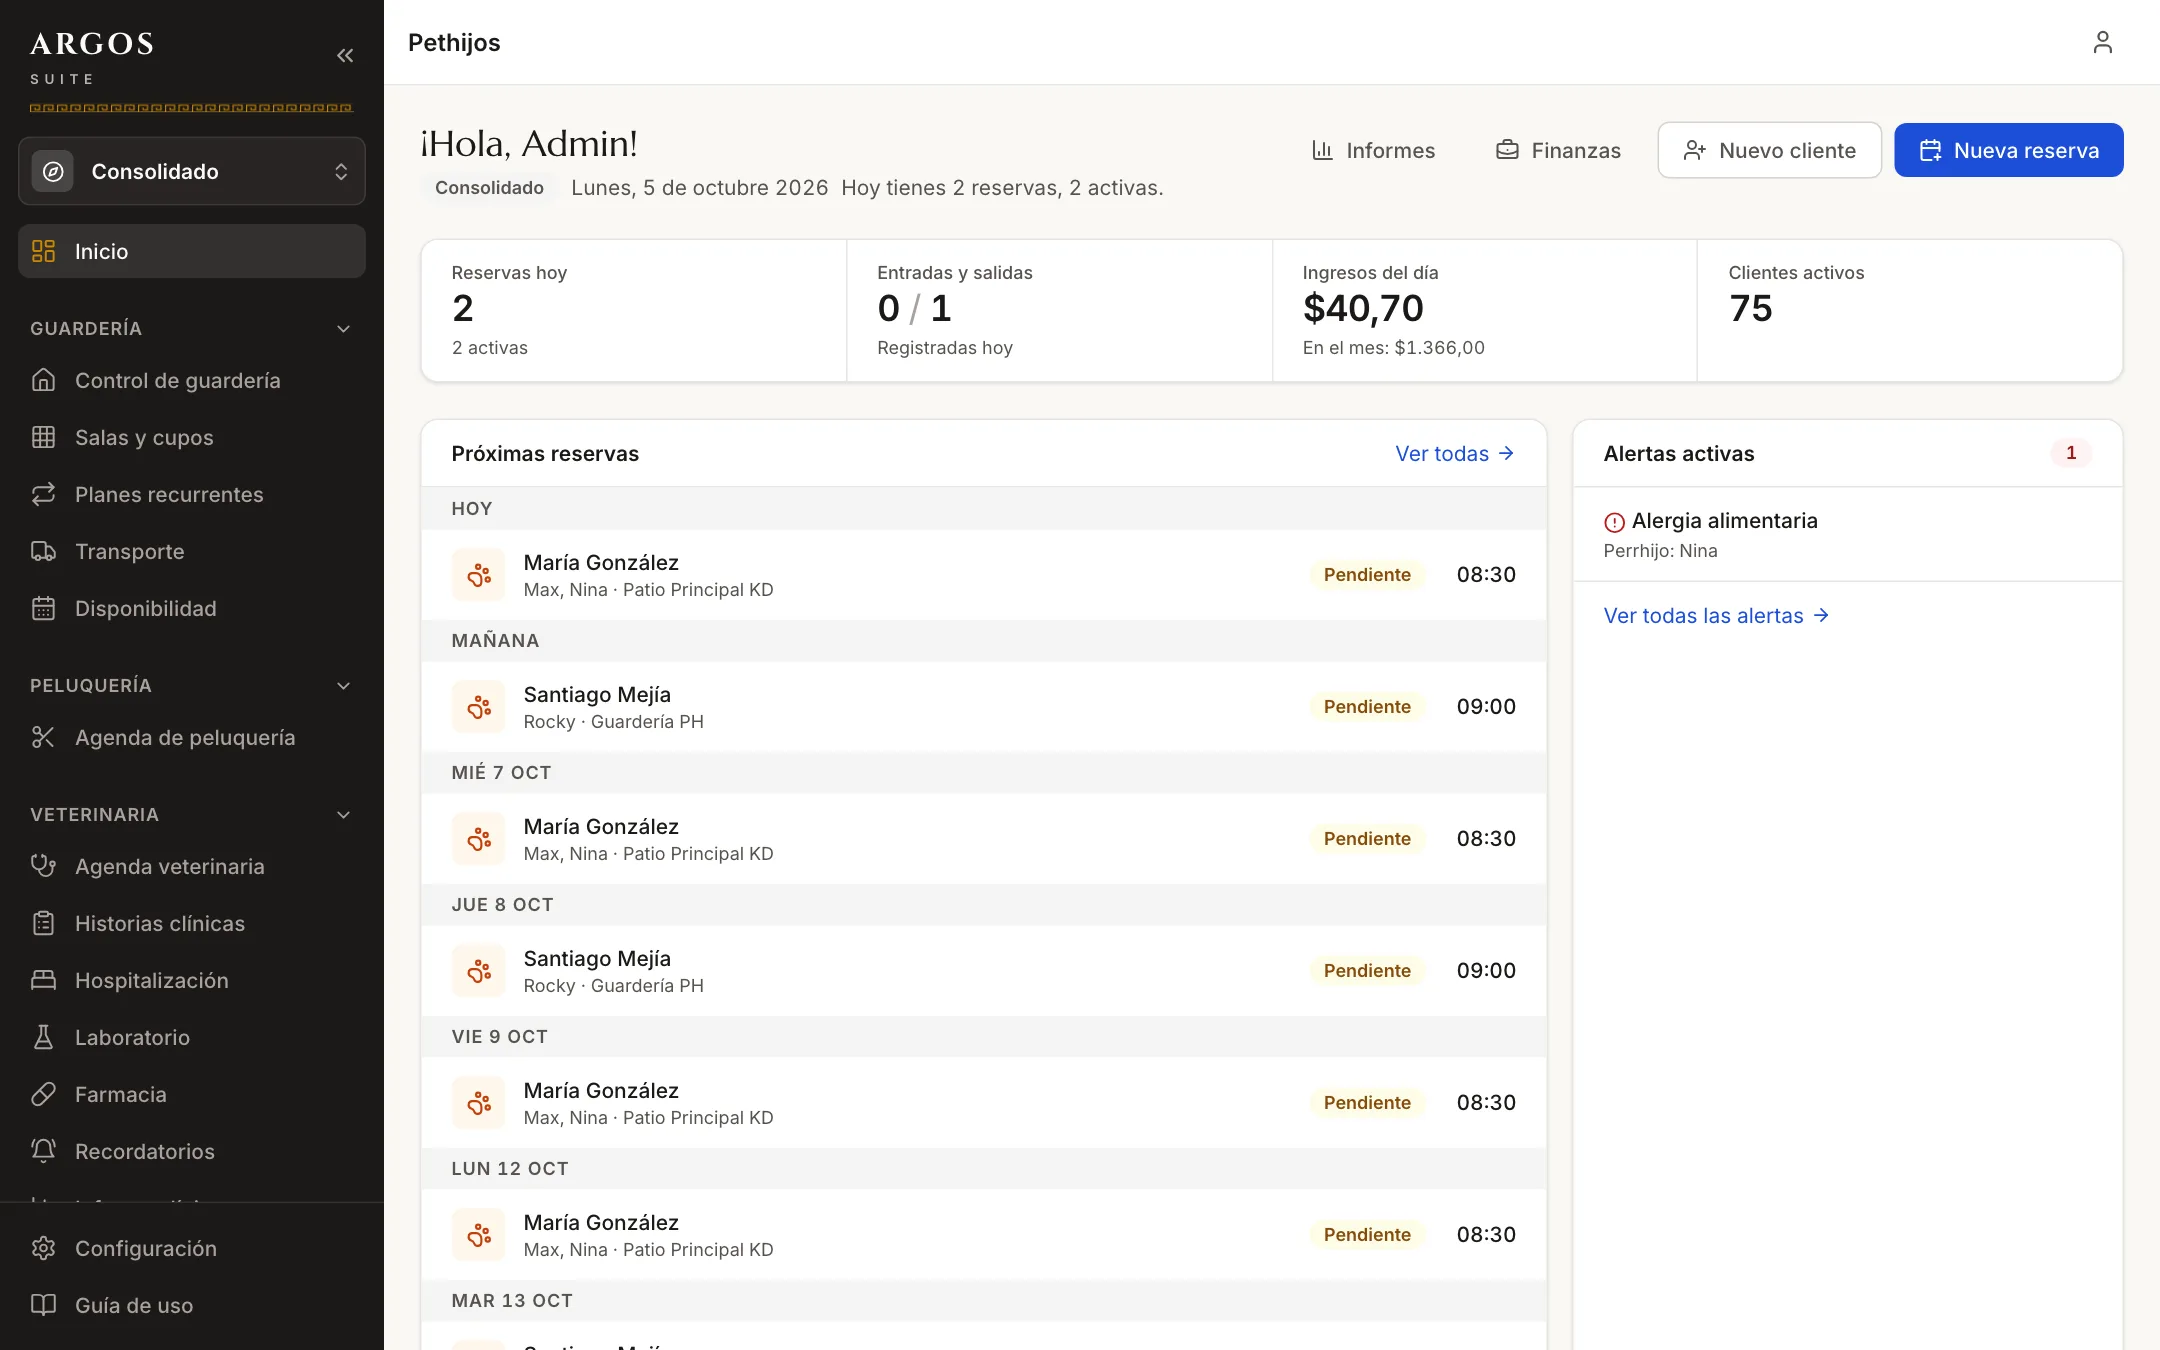
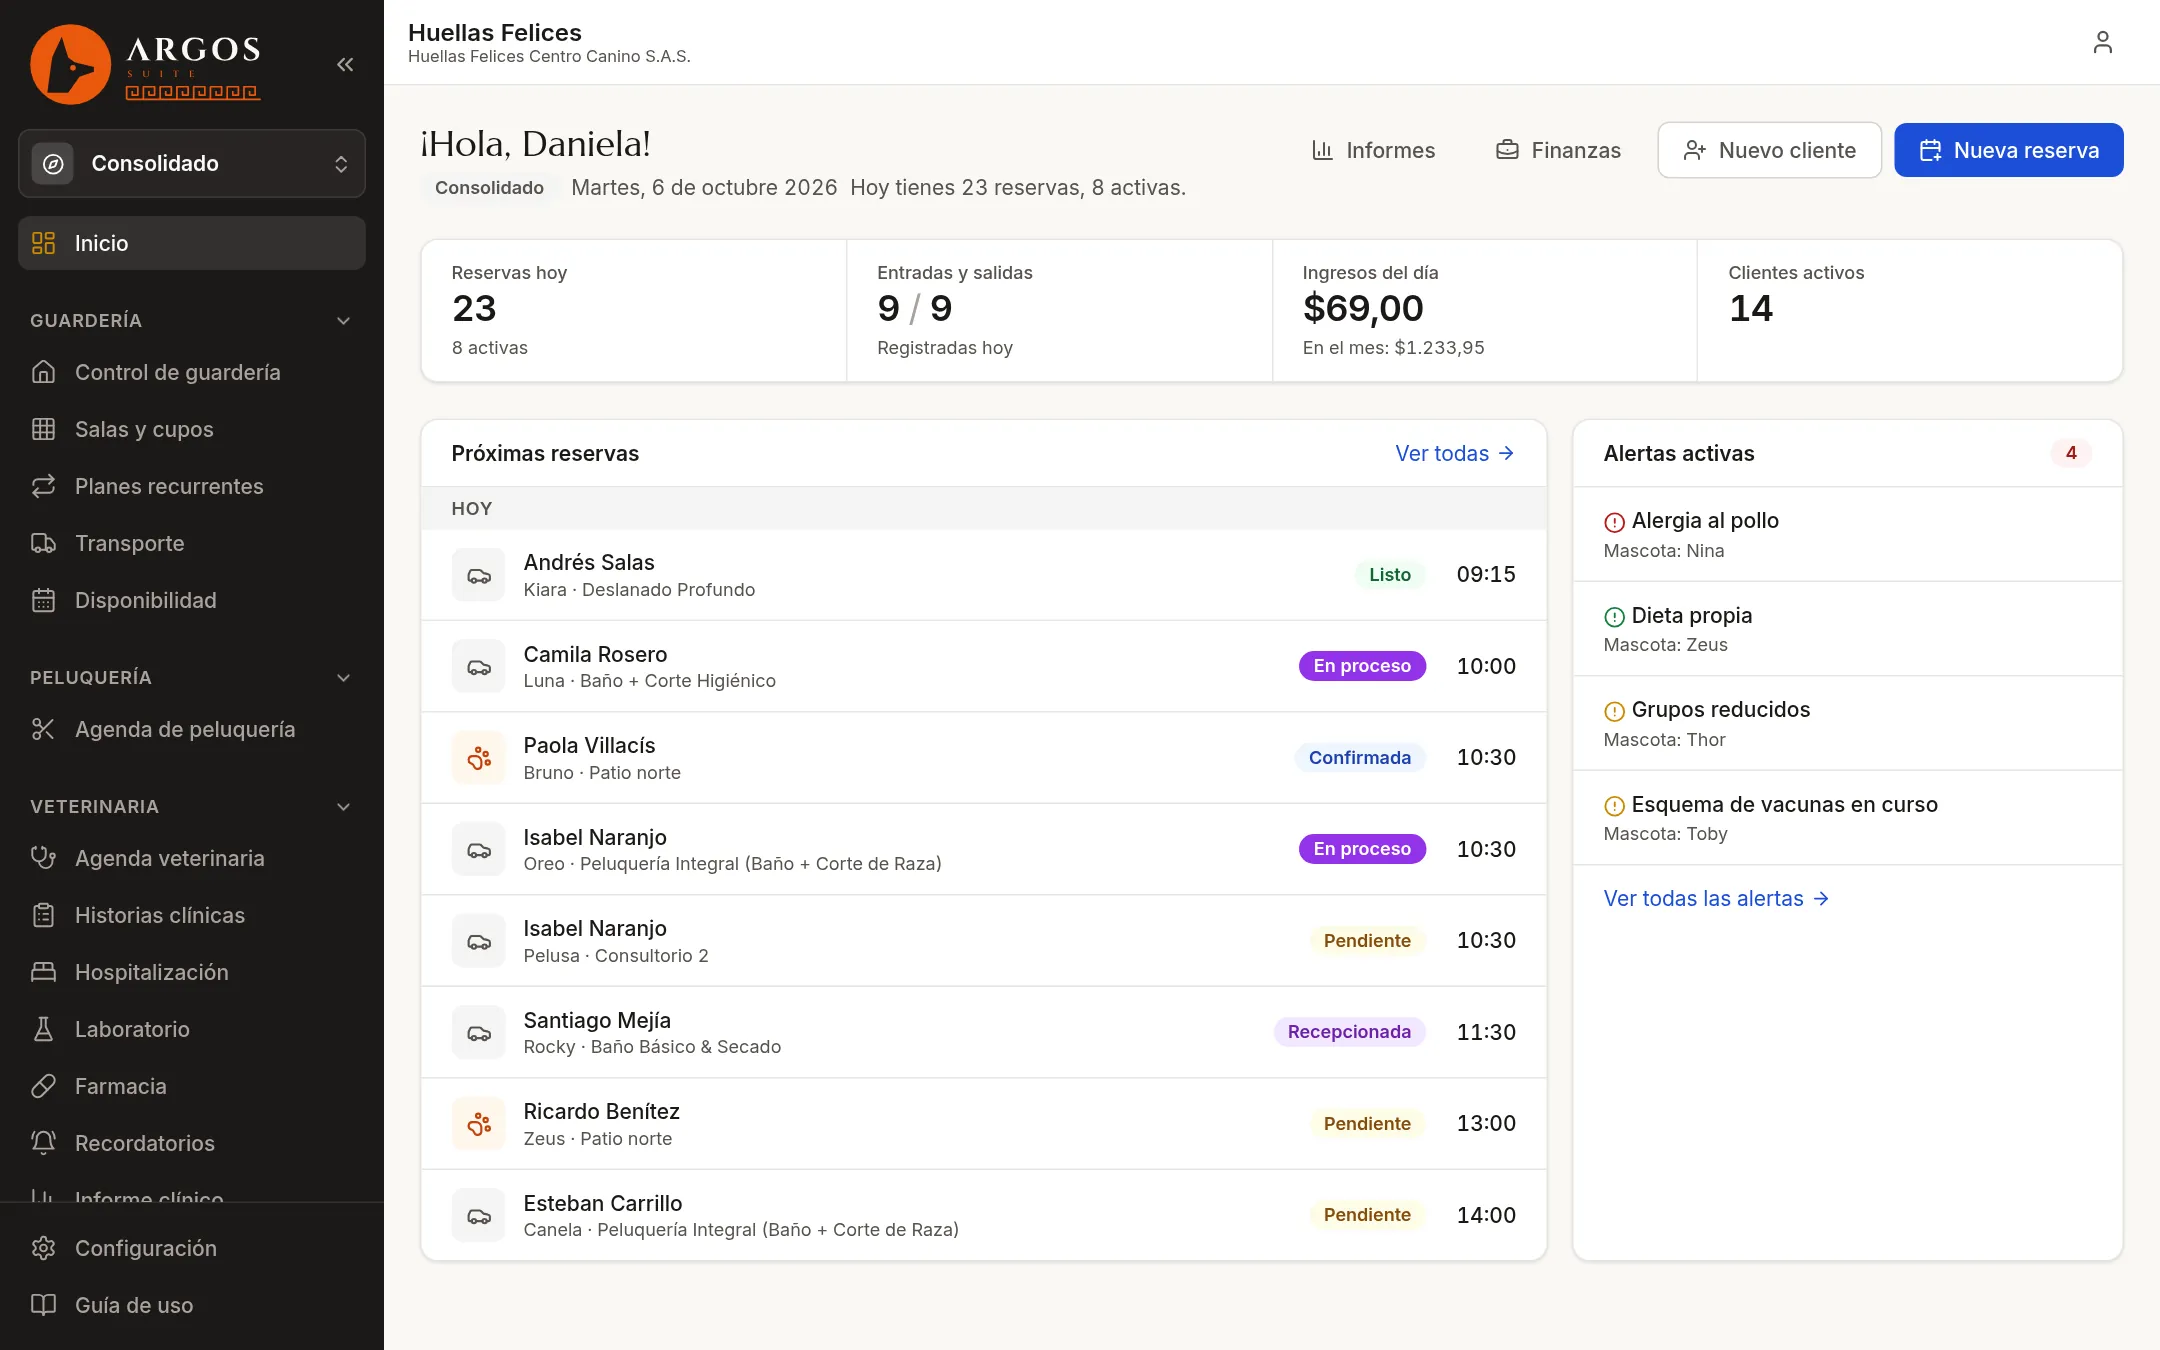
fix: retake the landing's screenshots from a freshly seeded tenant
The six product views had been taken from a dev database the e2e suites had run against, so
the public page showed 35 rooms named "Sala Test Modular <timestamp>", a "Modular Tester"
grooming card and "Test Dog / Test User Check-in" patients, under a tenant name the seed no
longer uses and with the old word "Perrhijos".

Retaken as the main demo tenant's administrator on a database migrated and seeded for the
purpose: the same six screens, 1440 x 900 at 1.5x, cut to the same four widths. Dates read
day first, as they do in Ecuador.

diff --git a/frontend/src/pages/Landing.tsx b/frontend/src/pages/Landing.tsx
@@ -45,8 +45,9 @@ import { EASE, REVEAL_STYLES, Reveal, useSlidingPill } from "./LandingReveal";
  *
  * It claims only what has shipped: no customer figures, testimonials, electronic invoicing, or
  * delivery receipts for reminders. The prices are not written here: `LandingPricing` reads them
- * from the catalog the checkout charges from. The product views are screenshots of the seeded dev stack
- * under `src/assets/landing/`, not mock-ups.
+ * from the catalog the checkout charges from. The product views under `src/assets/landing/` are
+ * screenshots of the main demo tenant, not mock-ups. Take them from a database seeded for the
+ * purpose: one the e2e suites have run against shows their test rooms and tutors.
  *
  * Icons here are Phosphor, drawn inline (`components/icons/PublicIcons.tsx`); the application
  * itself still uses Lucide.
